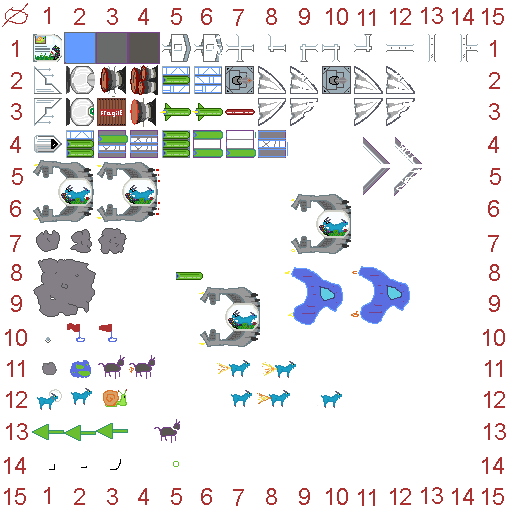
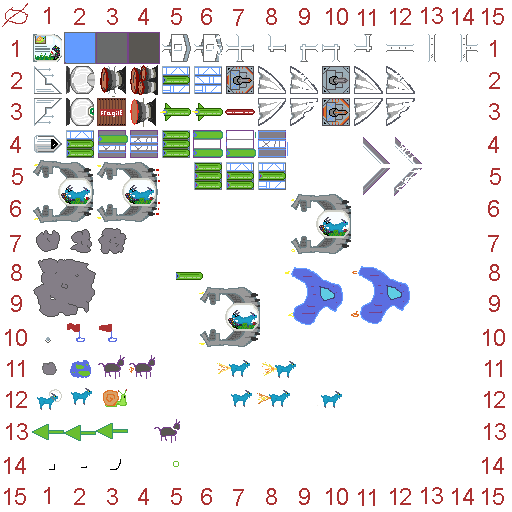
animations

Changed region(s): [[0.375, 0.3125, 0.5625, 0.375], [0.625, 0.125, 0.6875, 0.25], [0.4375, 0.125, 0.5, 0.1875]]

diff --git a/src/ludumDare43/actors/shipParts.ts b/src/ludumDare43/actors/shipParts.ts
@@ -33,6 +33,8 @@ export interface IShipPart {
   vx: number
   vy: number
   tint: number
+  elapsedRecharge: number
+  isReadyToFire: boolean
 }
 let items: IShipPart[] = []
 export function getAll() {
@@ -261,6 +263,8 @@ export function create(data: IShipPartData = core) {
     vx: 0,
     vy: 0,
     tint: 0xffffff,
+    elapsedRecharge: 0,
+    isReadyToFire: false,
   }
 
   let sprite = ctx.createSprite('ship-001', data.frame, 0.5, 0.5, 1)
@@ -326,7 +330,12 @@ export function create(data: IShipPartData = core) {
 
 export function switchDataTo(c: IShipPart, data: IShipPartData) {
   c.data = data
-  c.anim.sprite.texture.frame = data.frame
+
+  if (c.data.anim) {
+    anim.playAnim(c.anim, c.data.anim)
+  } else {
+    c.anim.sprite.texture.frame = data.frame
+  }
 }
 
 export function updateAll(elapsedTimeSec) {
@@ -349,10 +358,15 @@ export function updateAll(elapsedTimeSec) {
         anim.copyPosition(i.anim, hoveredPart.anim)
       } else if (hoveredPart.data.special === 'laser') {
         //switchDataTo(hoveredPart, hoveredPart.data.clickTo)
-        let i = rockets.create('laser')
-        i.launchedFrom = hoveredPart
-        anim.copyPosition(i.anim, hoveredPart.anim)
-        i.anim.sprite.x += 16
+
+        if (hoveredPart.isReadyToFire) {
+          hoveredPart.isReadyToFire = false
+          hoveredPart.elapsedRecharge = 0
+          let i = rockets.create('laser')
+          i.launchedFrom = hoveredPart
+          anim.copyPosition(i.anim, hoveredPart.anim)
+          i.anim.sprite.x += 16
+        }
       } else {
         jettisonPiece(hoveredPart)
       }
@@ -394,6 +408,18 @@ export function updateAll(elapsedTimeSec) {
         }
       }
     } else {
+      if (c.data.special === 'laser') {
+        c.elapsedRecharge += elapsedTimeSec
+        if (c.elapsedRecharge > 2) {
+          c.isReadyToFire = true
+          anim.playAnim(c.anim, c.data.anim2)
+          //.sprite.texture.frame = c.data.frame2
+        } else {
+          anim.playAnim(c.anim, c.data.anim)
+          //..c.anim.sprite.texture.frame = c.data.frame
+        }
+      }
+
       // part of ship
       let accel = 380
       let d = Math.abs(cy - c.vy)

diff --git a/src/ludumDare43/actors/shipPartsData.ts b/src/ludumDare43/actors/shipPartsData.ts
@@ -5,7 +5,9 @@ import * as anim from '../../engine/anim/anim'
 export interface IShipPartData {
   name: string
   frame: PIXI.Rectangle
+  //frame2?: PIXI.Rectangle
   anim?: anim.IAnimData
+  anim2?: anim.IAnimData
   noLeft?: boolean
   noRight?: boolean
   noTop?: boolean
@@ -242,6 +244,9 @@ datas.push(crate1)
 let rocketEmpty: IShipPartData = {
   name: 'rocket-1e',
   frame: spriteUtil.frame31p1(2, 6),
+  anim: {
+    frames: [spriteUtil.frame31p1(2, 6)],
+  },
   mass: 2,
   notSpawnable: true,
   special: 'rocket-spent',
@@ -252,6 +257,11 @@ datas.push(rocketEmpty)
 let rocket: IShipPartData = {
   name: 'rocket-1',
   frame: spriteUtil.frame31p1(2, 5),
+  anim: {
+    frames: [spriteUtil.frame31p1(2, 5), spriteUtil.frame31p1(5, 8)],
+    frameTime: 20 / 60,
+    loop: true,
+  },
   mass: 2,
   special: 'rocket',
   clickTo: rocketEmpty,
@@ -262,6 +272,11 @@ datas.push(rocket)
 let rocket2: IShipPartData = {
   name: 'rocket-2',
   frame: spriteUtil.frame31p1(4, 2),
+  anim: {
+    frames: [spriteUtil.frame31p1(4, 2), spriteUtil.frame31p1(5, 7)],
+    frameTime: 20 / 60,
+    loop: true,
+  },
   mass: 2,
   special: 'rocket',
   clickTo: rocket,
@@ -272,6 +287,11 @@ datas.push(rocket2)
 let rocket3: IShipPartData = {
   name: 'rocket-3',
   frame: spriteUtil.frame31p1(4, 5),
+  anim: {
+    frames: [spriteUtil.frame31p1(4, 5), spriteUtil.frame31p1(5, 6)],
+    frameTime: 20 / 60,
+    loop: true,
+  },
   mass: 2,
   special: 'rocket',
   clickTo: rocket2,
@@ -279,9 +299,22 @@ let rocket3: IShipPartData = {
 }
 datas.push(rocket3)
 
+var animL1: anim.IAnimData = {
+  frames: [spriteUtil.frame31p1(2, 10)],
+  frameTime: 30 / 60,
+  loop: true,
+}
+var animL2: anim.IAnimData = {
+  frames: [spriteUtil.frame31p1(2, 7), spriteUtil.frame31p1(3, 10)],
+  frameTime: 20 / 60,
+  loop: true,
+}
+
 let laser: IShipPartData = {
   name: 'laser-1',
-  frame: spriteUtil.frame31p1(2, 7),
+  frame: spriteUtil.frame31p1(2, 10),
+  anim: animL1,
+  anim2: animL2,
   mass: 2,
   special: 'laser',
   noColorSwap: true,

diff --git a/src/ludumDare43/actors/debris.ts b/src/ludumDare43/actors/debris.ts
@@ -32,7 +32,7 @@ export function create() {
     anim: anim.create(),
     vx: _.random(-150, -50),
     vy: _.random(-50, 50),
-    lifeLeft: 5,
+    lifeLeft: 15,
     isDead: false,
     elapsedEjectTime: 0,
   }
